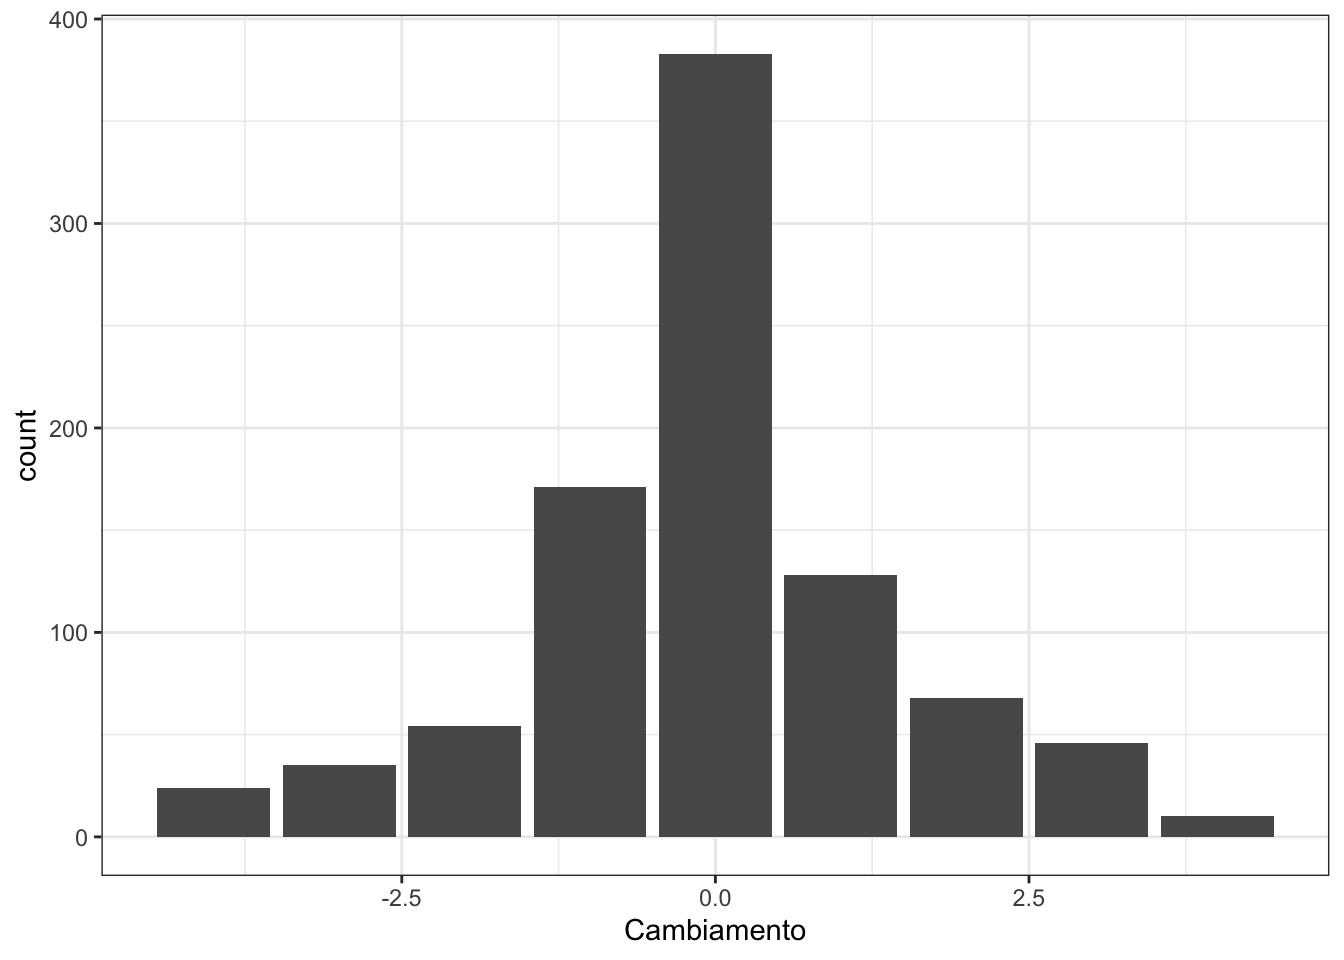
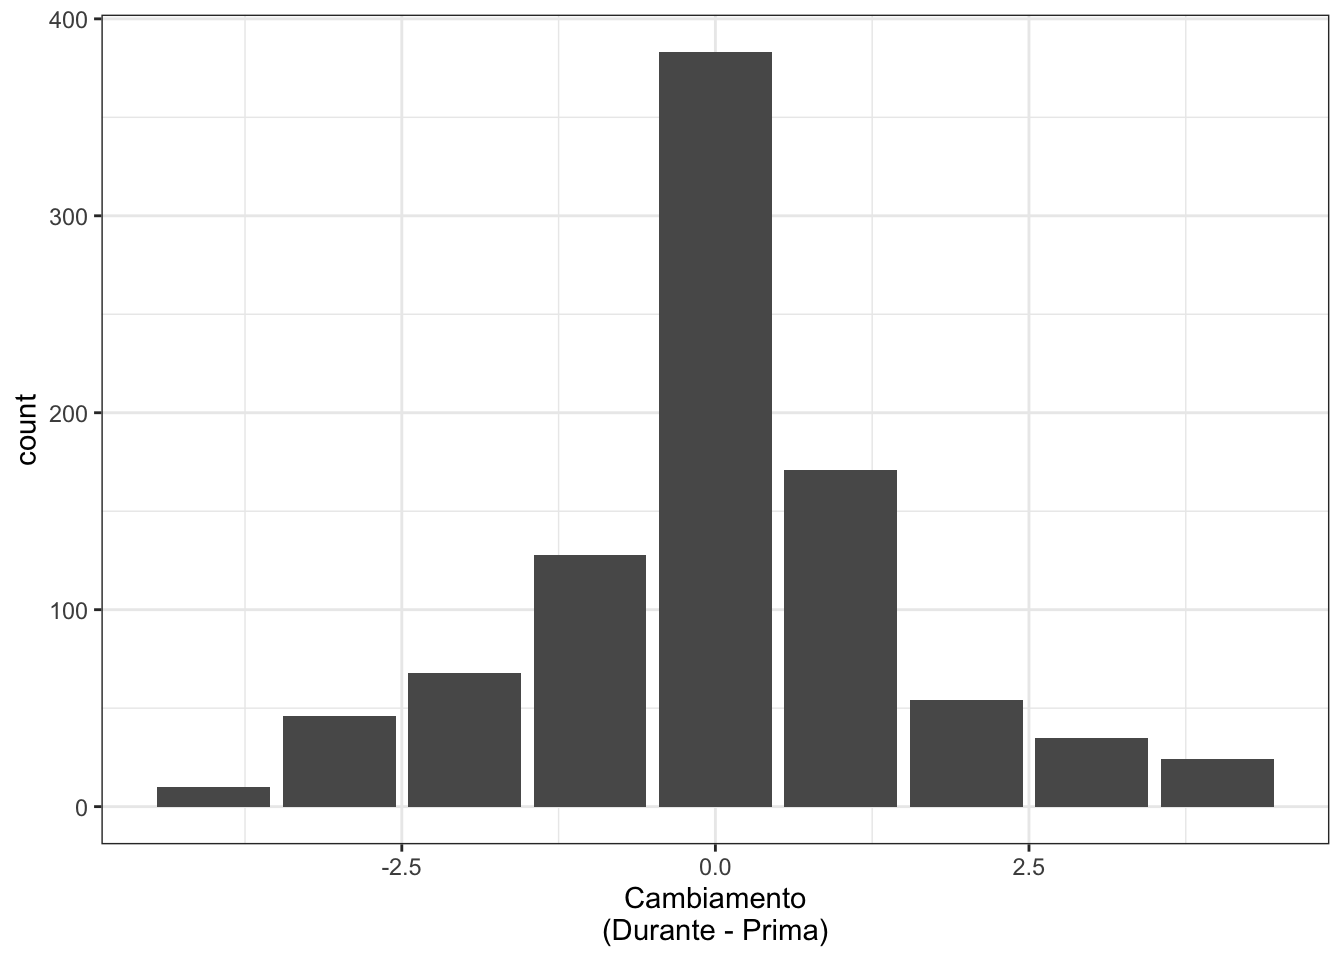
Build site.

diff --git a/docs/3.0-effetto-su-attivita-fisica.html b/docs/3.0-effetto-su-attivita-fisica.html
@@ -500,16 +500,16 @@ This reproducible <a href="http://rmarkdown.rstudio.com">R Markdown</a> analysis
 <div class="panel panel-default">
 <div class="panel-heading">
 <p class="panel-title">
-<a data-toggle="collapse" data-parent="#workflowr-checks" href="#strongRepositoryversionstrongahrefhttpsgithubcomannaquaglieri16tesimagistraleluciatree3b8fd0aeeff26cae8d904dbf5a104aca51b76fb9targetblank3b8fd0aa"> <span class="glyphicon glyphicon-ok text-success" aria-hidden="true"></span> <strong>Repository version:</strong> <a href="https://github.com/annaquaglieri16/tesi-magistrale-lucia/tree/3b8fd0aeeff26cae8d904dbf5a104aca51b76fb9" target="_blank">3b8fd0a</a> </a>
+<a data-toggle="collapse" data-parent="#workflowr-checks" href="#strongRepositoryversionstrongahrefhttpsgithubcomannaquaglieri16tesimagistraleluciatree4908c1671059e5dcee5def6bc07ff3fdafa3e89ftargetblank4908c16a"> <span class="glyphicon glyphicon-ok text-success" aria-hidden="true"></span> <strong>Repository version:</strong> <a href="https://github.com/annaquaglieri16/tesi-magistrale-lucia/tree/4908c1671059e5dcee5def6bc07ff3fdafa3e89f" target="_blank">4908c16</a> </a>
 </p>
 </div>
[2 lines of base64/hex data omitted]
 <div class="panel-body">
 <p>
 Great! You are using Git for version control. Tracking code development and connecting the code version to the results is critical for reproducibility.
 </p>
 <p>
-The results in this page were generated with repository version <a href="https://github.com/annaquaglieri16/tesi-magistrale-lucia/tree/3b8fd0aeeff26cae8d904dbf5a104aca51b76fb9" target="_blank">3b8fd0a</a>. See the <em>Past versions</em> tab to see a history of the changes made to the R Markdown and HTML files.
+The results in this page were generated with repository version <a href="https://github.com/annaquaglieri16/tesi-magistrale-lucia/tree/4908c1671059e5dcee5def6bc07ff3fdafa3e89f" target="_blank">4908c16</a>. See the <em>Past versions</em> tab to see a history of the changes made to the R Markdown and HTML files.
 </p>
 <p>
 Note that you need to be careful to ensure that all relevant files for the analysis have been committed to Git prior to generating the results (you can use <code>wflow_publish</code> or <code>wflow_git_commit</code>). workflowr only checks the R Markdown file, but you know if there are other scripts or data files that it depends on. Below is the status of the Git repository when the results were generated:
@@ -559,6 +559,40 @@ Message
 </tr>
 </thead>
 <tbody>
+<tr>
+<td>
+Rmd
+</td>
+<td>
+<a href="https://github.com/annaquaglieri16/tesi-magistrale-lucia/blob/4908c1671059e5dcee5def6bc07ff3fdafa3e89f/analysis/3.0-effetto-su-attivita-fisica.Rmd" target="_blank">4908c16</a>
+</td>
+<td>
+Anna Quaglieri
+</td>
+<td>
+2020-06-24
+</td>
+<td>
+wflow_publish(“analysis/3.0-effetto-su-attivita-fisica.Rmd”)
+</td>
+</tr>
+<tr>
+<td>
+html
+</td>
+<td>
+<a href="https://rawcdn.githack.com/annaquaglieri16/tesi-magistrale-lucia/d0f491b1687a452c2cb59521f9dd7e836bf14146/docs/3.0-effetto-su-attivita-fisica.html" target="_blank">d0f491b</a>
+</td>
+<td>
+Anna Quaglieri
+</td>
+<td>
+2020-06-24
+</td>
+<td>
+Build site.
+</td>
+</tr>
 <tr>
 <td>
 Rmd
@@ -1591,7 +1625,7 @@ Anna Quaglieri
 </table>
 </div>
 </div>
-<p>Il grafico sotto mostra la distribuzione della differenza tra la frequenza nella pratica di attivita’ fisica prima e dopo. In generale c’e’ un numero simile di persone che aumentano o diminuiscono la frequenza (la distribuzione e’ piuttosto simmetrica attorno allo zero, media = -0.041 e t-test per l’uguaglianza della media a zero non e’ significativo al 5%). La maggior parte delle persone non cambia frequenza.</p>
+<p>Il grafico sotto mostra la distribuzione della differenza tra la frequenza nella pratica di attivita’ fisica prima e dopo. In generale c’e’ un numero simile di persone che aumentano o diminuiscono la frequenza anche se leggeremente piu’ persone aumentano la frequenza (la distribuzione e’ piuttosto simmetrica attorno allo zero, media = 0.041 e t-test per l’uguaglianza della media a zero non e’ significativo al 5%).</p>
 <p><img src="figure/3.0-effetto-su-attivita-fisica.Rmd/cambiamento-prima-dopo-1.png" width="672" style="display: block; margin: auto;" /></p>
 <p>
 <button type="button" class="btn btn-default btn-xs btn-workflowr btn-workflowr-fig" data-toggle="collapse" data-target="#fig-cambiamento-prima-dopo-1">
@@ -1634,13 +1668,13 @@ Anna Quaglieri
     One Sample t-test
 
 data:  tab_numeri$Cambiamento
-t = -0.8371, df = 918, p-value = 0.4028
+t = 0.8371, df = 918, p-value = 0.4028
 alternative hypothesis: true mean is not equal to 0
 95 percent confidence interval:
- -0.13829083  0.05559224
+ -0.05559224  0.13829083
 sample estimates:
-  mean of x 
--0.04134929 </code></pre>
+ mean of x 
+0.04134929 </code></pre>
 </div>
 <div id="quelli-che-hanno-praticato-attivita-durante-la-quarantena-percepiscono-un-miglioramento-nella-loro-forma-fisica" class="section level1">
 <h1>5. Quelli che hanno praticato attivita’ durante la quarantena, percepiscono un miglioramento nella loro forma fisica?</h1>
